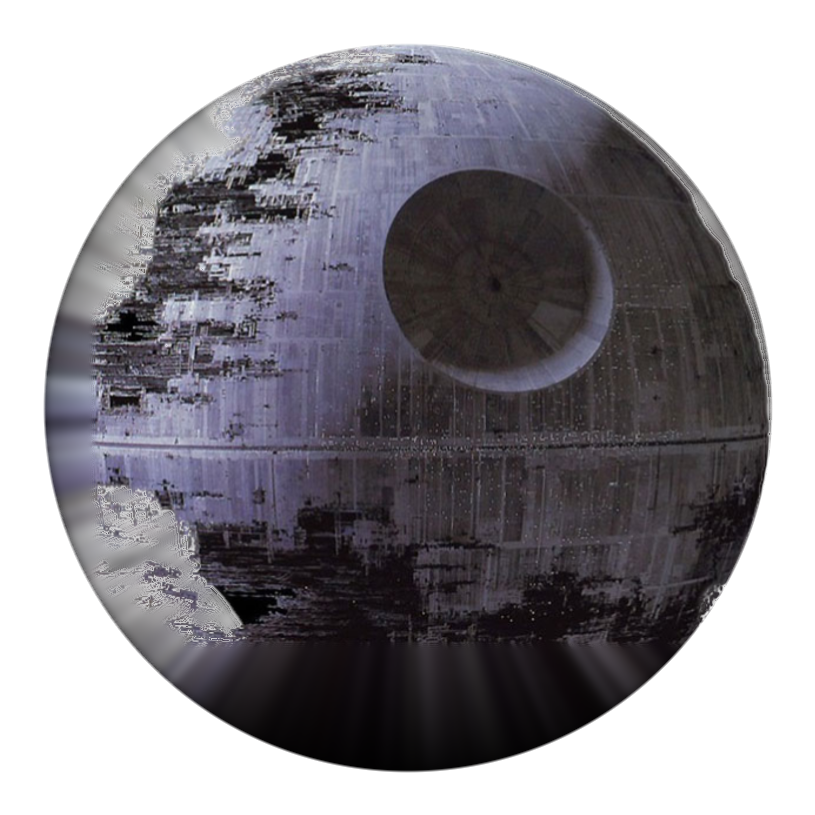
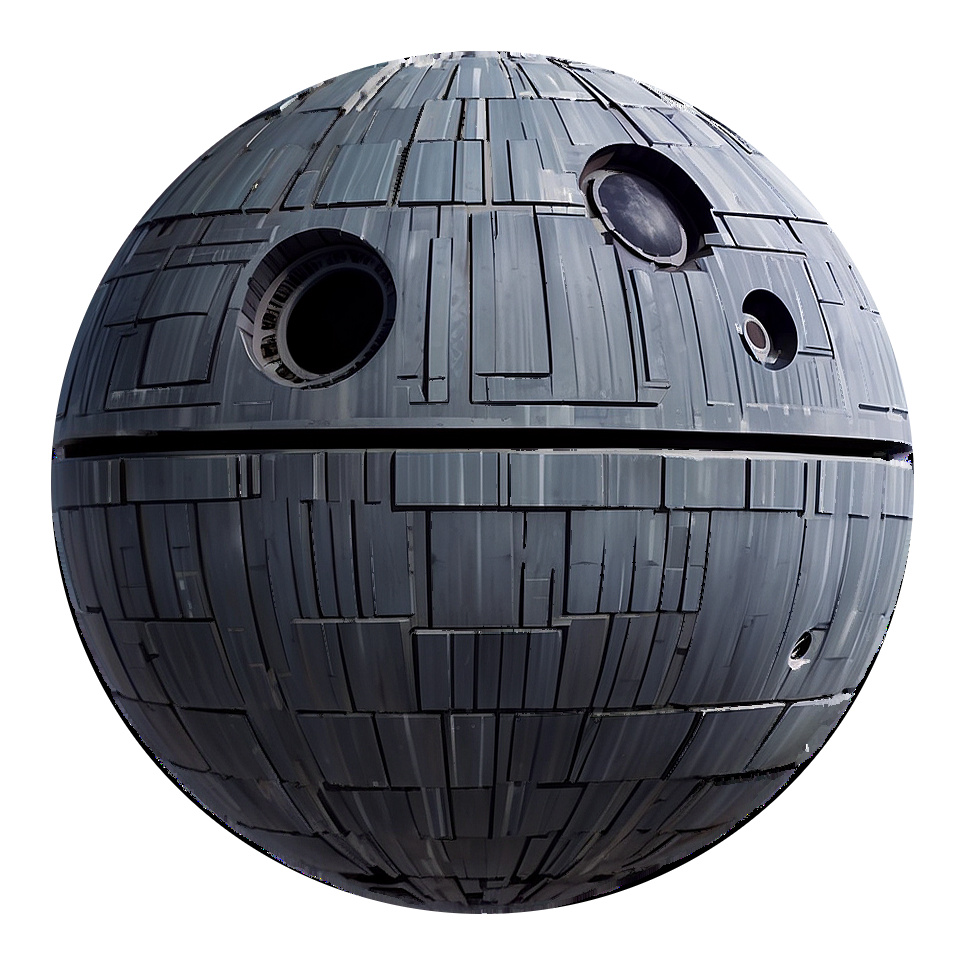
🌑 Death Star: a real sphere instead of a rebuilt one
The old art was a crop whose missing lower-left limb had been
extrapolated back in. That restored the silhouette but not the picture:
the fabricated limb was a pale smeared crescent, and on the cream slides
it read as the sphere being half transparent.

Replaced with a render that is a whole sphere to begin with
(wallpapers.com .../death-star-artwork-png-nvm-xpb738481cx20df5.png),
squared from its 4.5% oblate 863x826 to a true circle, its own colour
bled outward a few pixels, and its alpha thrown away and redrawn as an
exact circle: opaque inside, one pixel of feather at the limb, nothing
outside. No inherited alpha survives, so there is nothing left to be
subtly translucent - 0.3% of the picture is neither fully opaque nor
fully gone, and that 0.3% is the rim.

Centred in a 966x966 canvas so the sphere still fills 0.893 of the
artwork's height: starWarsSphereFraction is unchanged and no code moves.

Not yet deployed - build and visual check are held until after 18:00 at
Victor's request.

diff --git a/docs/overlay-effects.md b/docs/overlay-effects.md
@@ -285,17 +285,34 @@ rule from the start.
   centre), 0.69 of the screen height across, in 6.5 s of the 10 s clip; the last 3.5 s
   it simply hangs there.
   - **The artwork is a whole sphere, and that is the load-bearing change.** The
-    original `death-star.png` was a *crop*: cut off flat along its left and bottom
+    first `death-star.png` was a *crop*: cut off flat along its left and bottom
     edges, so the only place on screen where those cuts are invisible is welded into
     the bottom-left corner, with the slices exactly on the screen edges. Pulled even
-    10% inboard, the sphere visibly showed two straight cut lines. So the missing
-    lower-left limb was **rebuilt**: fit a circle to the silhouette (centre 314,394,
-    R 364 in the source's pixels), then fill everything inside it that the crop never
-    had by walking radially inward to the nearest real pixel and darkening steeply
-    with the distance walked, which lands the fabricated part in the sphere's own
-    shadow where nobody reads detail. The white fringe the source kept from being cut
-    out of a white background is dropped on the way (it was extrapolating into a white
-    crescent down the left limb). The result ships **in the app bundle**, and only there — it
+    10% inboard, the sphere visibly showed two straight cut lines. The missing
+    lower-left limb was then **rebuilt** by radial extrapolation — which bought back
+    the round silhouette but not the picture: the fabricated limb was a pale,
+    smeared crescent that on the room's cream slides read as *the sphere being
+    half transparent*, the exact complaint it was meant to fix.
+  - **So the art is now a real render, cut to a circle** (2026-09-18) — a whole
+    sphere photographed as one, nothing invented:
+    `wallpapers.com/images/hd/death-star-artwork-png-nvm-xpb738481cx20df5.png`.
+    Three things are done to it and they are the whole recipe: the render is ~4.5%
+    **oblate** (863 × 826), so it is squared to 863 × 863 and the sphere becomes an
+    actual circle; the sphere's own colour is bled a few pixels outward so the new
+    limb can never sample whatever the source's rim had bled in from its background;
+    and the alpha is **thrown away and redrawn** as an exact circle — 255 inside,
+    one pixel of feather at the limb, 0 outside. That last step is why this cannot
+    regress: there is no inherited alpha left to be subtly translucent, and 0.3% of
+    the picture is anything other than fully opaque or fully gone. The sphere is
+    then centred in a 966 × 966 canvas so `starWarsSphereFraction` stays 0.893 and
+    **no code changed**.
+  - **Candidates are rejected on their drop shadow, not their looks.** Most Death
+    Star cut-outs on stock sites carry an opaque shadow blob fused to the
+    silhouette; the circular mask makes it fully opaque and it lands on screen as a
+    grey smudge welded to the limb. A candidate whose alpha≥128 bbox is an ellipse
+    *and* whose filled area matches that ellipse is shadow-free — that test, not the
+    thumbnail, picked this one out of ~50.
+  - The result ships **in the app bundle**, and only there — it
     used to have a downloads-folder fallback, where one tidy-up would have
     silently killed the effect. (The four effects that still read an external
     file — love-hands, brother, gangnam, fail — go through
